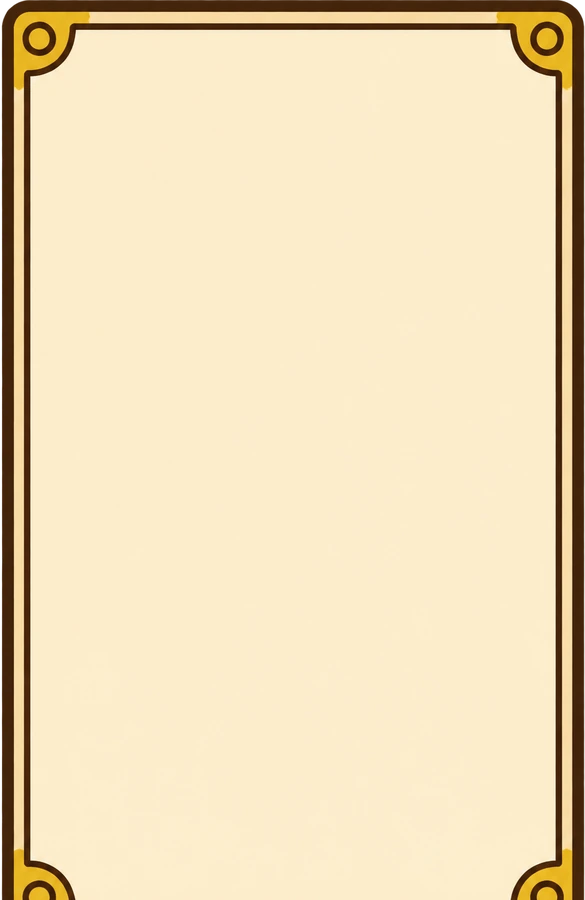
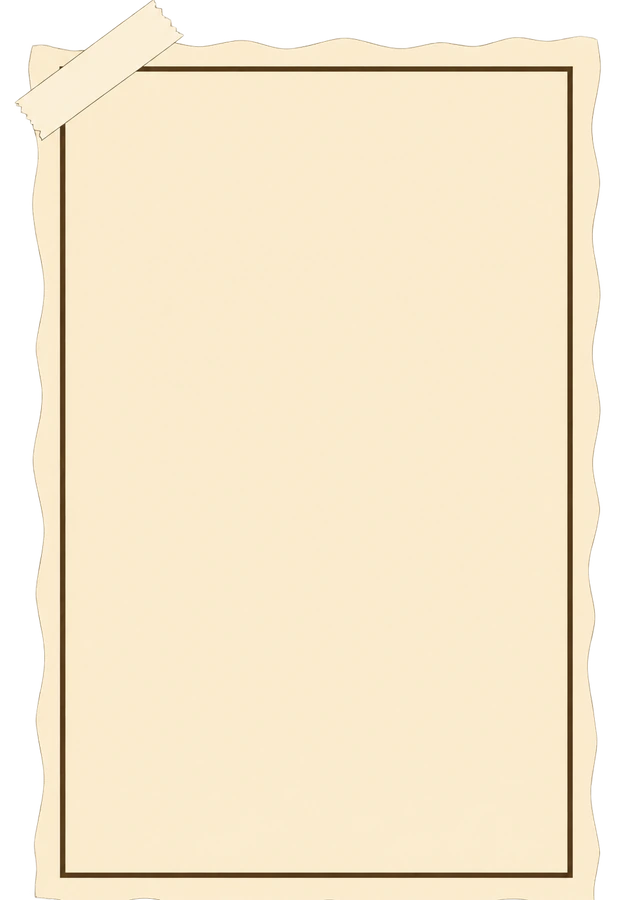
fix(ui): 登录卡换成纸的素材、菜单收窄字号放大、选项点选不再冒小勾
- 登录卡重画：手撕边的纸、左上角一条胶带、内嵌墨线（昼夜各一张），替掉
  带铜角的那版；页面允许纵向滚动，卡片底部不再被裁掉；输入框固定用浅色那张
  （之前夜里会变成靛蓝块）；印章与标题的间距 14→26，印章往左让开。
- 账号菜单：删掉 @ 用户名一行，宽度 244→208（右边本来一片空白），字号
  13→15。
- 学习设置：每日新词量（词）、每日学习时长（分钟）把单位写进标签；「≈ N 天」
  徽章与步进器同高（38px）。
- 记忆练习：去掉点选后短暂出现的小圆勾（.choice-option__tick），选中态仍由
  选项本身的底色表示。

Changed region(s): [[0.0, 0.0, 1.0, 1.0]]

diff --git a/frontend/src/components/ChoiceTrainer.vue b/frontend/src/components/ChoiceTrainer.vue
@@ -165,15 +165,6 @@ function choose(optionId: string): void {
         <span class="choice-option__face">
           <span class="choice-option__mark" aria-hidden="true">{{ index >= 4 ? String.fromCharCode(65 + index) : '' }}</span>
           <span class="choice-option__label">{{ option.label }}</span>
-          <span class="choice-option__tick" aria-hidden="true">
-            <svg class="choice-option__yes" viewBox="0 0 24 24" fill="none" stroke="currentColor" stroke-width="3.4" stroke-linecap="round" stroke-linejoin="round">
-              <path d="M5 13l4.5 4.5L19 7" />
-            </svg>
-            <svg class="choice-option__no" viewBox="0 0 24 24" fill="none" stroke="currentColor" stroke-width="3.4" stroke-linecap="round" stroke-linejoin="round">
-              <path d="M6.5 6.5 17.5 17.5" />
-              <path d="M17.5 6.5 6.5 17.5" />
-            </svg>
-          </span>
         </span>
         <span v-if="plateState(option)" class="choice-option__stamp" aria-hidden="true"></span>
         <span v-if="props.hit && plateState(option) === 'right'" class="choice-option__burst" aria-hidden="true"></span>
@@ -407,36 +398,7 @@ html[data-theme='night'] .choice-option--wrong .choice-option__stamp {
   to { background-position: -896px 0; }
 }
 
-.choice-option__tick {
-  grid-column: 3;
-  display: grid;
-  place-items: center;
-  width: 20px;
-  height: 22px;
-  border-radius: 999px;
-  background: #c98a2e;
-  color: #fff8e8;
-  opacity: 0;
-  transform: scale(0.5);
-  transition: opacity 160ms ease, transform 200ms cubic-bezier(0.2, 0.9, 0.25, 1.4);
-}
-
-.choice-option__tick svg { width: 14px; height: 14px; }
-
 .choice-option--selected .choice-option__face { filter: none; }
-
-.choice-option--selected .choice-option__tick {
-  opacity: 1;
-  transform: scale(1);
-}
-
-/* One marker at a time: once the server has spoken, the stamp carries the
-   verdict and the little picked badge steps out of its way. */
-.choice-option--right .choice-option__tick,
-.choice-option--wrong .choice-option__tick {
-  opacity: 0;
-  transform: scale(0.5);
-}
 
 .choice-option input:focus-visible + .choice-option__face {
   outline: 3px solid #1cb0f6;

diff --git a/frontend/src/game-ui.css b/frontend/src/game-ui.css
@@ -1842,11 +1842,12 @@ html[data-theme='night'] .personal-workspace .progress-card__streak.is-active {
   background-size: 22px 22px;
 }
 
-/* The sign-in card is drawn — parchment panel with brass corner brackets —
- * so this sheet owns the frame and leaves size/padding to cookie-theme. */
+/* The sign-in card is a sheet of paper: torn edges, a strip of tape on the
+ * top-left corner, an ink rule squared inside. This sheet owns the frame and
+ * leaves size/padding to cookie-theme. */
 .auth-card {
-  border: 26px solid transparent;
-  border-image: url('./assets/halloween/card/panel-auth-day.webp') 9% 12% 9% fill stretch;
+  border: 24px solid transparent;
+  border-image: url('./assets/halloween/card/panel-auth-day.webp') 11% 12% 10% fill stretch;
   border-radius: 0;
   background: none;
   box-shadow: 0 26px 60px rgb(59 42 26 / 12%);

diff --git a/frontend/src/views/LearningSettingsView.vue b/frontend/src/views/LearningSettingsView.vue
@@ -282,7 +282,7 @@ onMounted(() => {
           </legend>
           <div class="settings-daily-grid">
             <div class="field field--inline">
-              <label for="daily-new-words">每日新词量</label>
+              <label for="daily-new-words">每日新词量（词）</label>
               <CrumbNumber
                 id="daily-new-words"
                 v-model="form.dailyNewWords"
@@ -298,7 +298,7 @@ onMounted(() => {
             </div>
 
             <div class="field field--inline">
-              <label for="daily-minutes">每日学习时长</label>
+              <label for="daily-minutes">每日学习时长（分钟）</label>
               <div class="field-inline-note">
                 <CrumbNumber
                   id="daily-minutes"

diff --git a/frontend/src/information-architecture.css b/frontend/src/information-architecture.css
@@ -35,7 +35,7 @@
   top: calc(100% + 6px);
   right: 0;
   display: grid;
-  width: 244px;
+  width: 208px;
   overflow: visible;
   padding: 10px 12px;
   border: 16px solid transparent;
@@ -69,7 +69,7 @@ html[data-theme='night'] .ia-profile-menu {
   border-radius: 7px;
   background: transparent;
   color: var(--crumb-cocoa);
-  font-size: 12px;
+  font-size: 15px;
   font-weight: 650;
   text-align: left;
   text-decoration: none;
@@ -83,7 +83,7 @@ html[data-theme='night'] .ia-profile-menu {
 .workspace-shell .ia-profile-menu > [role='menuitem'],
 .workspace-shell .ia-profile-menu > button {
   font-family: inherit;
-  font-size: 13px;
+  font-size: 15px;
   font-weight: 650;
   line-height: 1.5;
   color: var(--crumb-cocoa);

diff --git a/frontend/src/cookie-theme.css b/frontend/src/cookie-theme.css
@@ -388,7 +388,8 @@ pre {
 .auth-page {
   position: relative;
   isolation: isolate;
-  overflow: hidden;
+  overflow-x: hidden;
+  overflow-y: auto;
   padding: clamp(1.2rem, 6vw, 4rem);
   background:
     radial-gradient(circle at 15% 18%, rgb(243 200 91 / 36%), transparent 18rem),
@@ -559,7 +560,7 @@ html[data-theme='night'] .auth-page .form-stack [type='submit'] {
 
 .auth-card__masthead {
   display: flex;
-  gap: 14px;
+  gap: 26px;
   align-items: center;
   justify-content: center;
   margin-bottom: 1.35rem;

diff --git a/frontend/src/controls.css b/frontend/src/controls.css
@@ -1887,6 +1887,14 @@ html[data-theme='night'] .personal-workspace .option-badge__letter { color: #f3e
   width: auto;
 }
 
+/* The little "≈ 5 天" chip is the same height as the stepper it sits beside. */
+.personal-workspace .settings-daily-grid .field-badge {
+  display: inline-flex;
+  align-items: center;
+  height: 38px;
+  padding-block: 0;
+}
+
 
 @media (max-width: 760px) {
   .personal-workspace .settings-form .settings-goal-legend { flex-wrap: wrap; }

diff --git a/frontend/src/components/MemberShell.vue b/frontend/src/components/MemberShell.vue
@@ -262,7 +262,6 @@ onBeforeUnmount(() => {
               <div class="ia-profile-summary">
                 <span class="ia-profile-menu-label">个人资料</span>
                 <strong>{{ displayName }}</strong>
-                <span>@{{ username }}</span>
               </div>
               <div class="ia-profile-theme">
                 <span>{{ isNight ? '夜晚' : '白天' }}</span>
